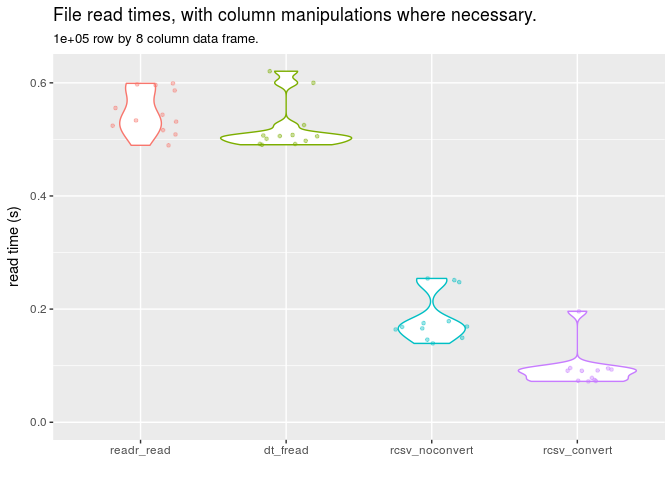
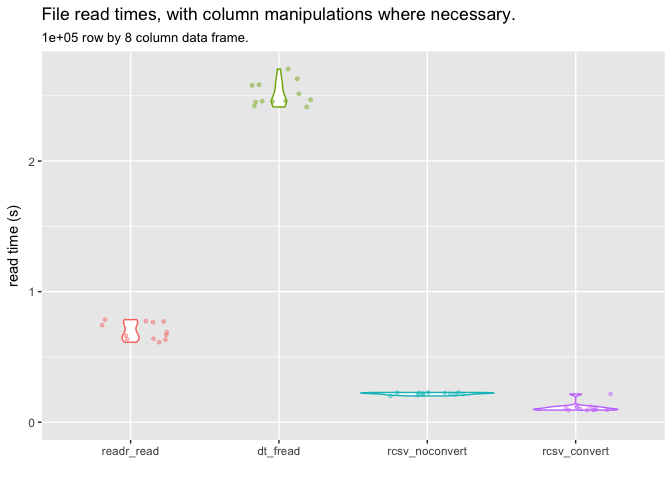
updating README

diff --git a/README.md b/README.md
@@ -87,10 +87,10 @@ write_rcsv( df, testfile )
 #>  And another one.
 ```
 
-Noticee that at the top of this file though, is a (JSON-like) header:
+Notice that at the top of this file though, is a (JSON-like) header:
 
 ``` r
-readLines( testfile, n = 12 )
+readLines( testfile, n = 15 )
 #>  [1] "#{rcsvHeader},{headlines:11},{noteslines:2},{colreflines:8},{tablerows:100}"                         
 #>  [2] "#{notes:Here's an example note.}"                                                                    
 #>  [3] "#{notes:And another one.}"                                                                           
@@ -102,7 +102,10 @@ readLines( testfile, n = 12 )
 #>  [9] "#{colref:6},{colname:logical},{colclass:logical},{from:long}"                                        
 #> [10] "#{colref:7},{colname:factor},{colclass:factor},{levels:small,medium,large,extra-large},{from:string}"
 #> [11] "#{colref:8},{colname:times},{colclass:times},{from:string}"                                          
-#> [12] "integers,letters,dates,posix,itime,logical,factor,times"
+#> [12] "integers,letters,dates,posix,itime,logical,factor,times"                                             
+#> [13] "1,h,2107-12-31,1970-01-12T08:46:40Z,05:43:46,FALSE,extra-large,00:01:26"                             
+#> [14] "2,u,2046-07-20,1970-01-12T09:03:20Z,23:05:47,TRUE,small,00:15:57"                                    
+#> [15] "3,k,2082-05-19,1970-01-12T09:20:00Z,14:25:58,FALSE,extra-large,00:30:28"
 ```
 
 The first line of the file contains some basic details about the file structure, below which is a series of lines specifying details of each column. This "header" section will be used by `read_rcsv` to import the data frame in a manner matching the file written out, without the need for special parameters on the read call, or additional manipulations after import.
@@ -234,7 +237,7 @@ The `write_rcsv` function includes several options for "compressing" the csv out
 rcsv::write_rcsv( df, testfile, strings.convert = TRUE )
 #> Notes:  Here's an example note.
 #>  And another one.
-readLines( testfile, n = 12 )
+readLines( testfile, n = 15 )
 #>  [1] "#{rcsvHeader},{headlines:11},{noteslines:2},{colreflines:8},{tablerows:100}"                                                      
 #>  [2] "#{notes:Here's an example note.}"                                                                                                 
 #>  [3] "#{notes:And another one.}"                                                                                                        
@@ -246,7 +249,10 @@ readLines( testfile, n = 12 )
 #>  [9] "#{colref:6},{colname:logical},{colclass:logical},{from:integer}"                                                                  
 #> [10] "#{colref:7},{colname:factor},{colclass:factor},{levels:small,medium,large,extra-large},{from:integer}"                            
 #> [11] "#{colref:8},{colname:times},{colclass:times},{from:numeric}"                                                                      
-#> [12] "integers,letters,dates,posix,itime,logical,factor,times"
+#> [12] "integers,letters,dates,posix,itime,logical,factor,times"                                                                          
+#> [13] "1,8,50402,1000000,20626,0,4,0.001"                                                                                                
+#> [14] "2,21,27959,1001000,83147,1,1,0.0110808080808081"                                                                                  
+#> [15] "3,11,41046,1002000,51958,0,4,0.0211616161616162"
 ```
 
 The data itself here looks significantly different from the regular csv. character strings, factors, dates, times, and logical objects are all being represented in integer or numeric form, to be converted back to their respective classes on import using the information stored in the header, without any extra parameters needing to be passed to the import call:
@@ -299,24 +305,24 @@ write.times <- microbenchmark::microbenchmark(
 )
 write.times
 #> Unit: milliseconds
-#>            expr         min          lq        mean      median
-#>      base_write 1443.225465 1502.656276 1578.110362 1553.346403
-#>     readr_write 1221.255362 1295.262282 1330.022583 1335.235287
-#>       dt_fwrite   15.916950   16.189959   35.281099   16.578532
-#>  rcsv_noconvert   56.250162   62.242014  106.617409   89.231216
-#>    rcsv_convert   23.792785   23.933099   37.223181   24.269112
-#>     rds_default  372.352141  374.994775  377.195577  377.804246
-#>             fst    3.809448    3.864523   15.420128    3.921533
-#>         feather    4.818591    4.872651    7.360614    4.940223
-#>           uq        max neval
-#>  1621.184513 1859.69566    12
-#>  1358.287101 1416.43248    12
-#>    26.054796  156.75417    12
-#>   141.602549  199.42766    12
-#>    36.268625  136.92847    12
-#>   379.183261  380.80144    12
-#>     6.135300   88.90081    12
-#>     5.782434   25.68775    12
+#>            expr         min          lq       mean      median         uq
+#>      base_write 2041.665661 2152.615432 2217.37180 2196.721061 2264.42605
+#>     readr_write 1868.495453 1981.885070 2038.54860 2013.841968 2125.89219
+#>       dt_fwrite   31.218609   32.065960   34.73217   33.299292   35.68307
+#>  rcsv_noconvert  661.864865  683.496033  728.47201  717.284687  751.03250
+#>    rcsv_convert   40.527412   41.560537   56.70949   44.274680   69.24308
+#>     rds_default  440.414554  442.229897  460.95943  458.189173  474.36831
+#>             fst    9.603177    9.721027   13.59323   11.787356   14.33337
+#>         feather    8.906546    9.282094   10.96685    9.646314   11.21606
+#>         max neval
+#>  2520.15320    12
+#>  2228.80600    12
+#>    45.52502    12
+#>   841.44069    12
+#>   126.61868    12
+#>   489.24868    12
+#>    33.42652    12
+#>    21.56478    12
 ```
 
 `write_rcsv` is built around the fantastic `data.table::fwrite` function, making it much faster than both `base::write.csv` and `readr::write_csv`. It even maintains relatively good performance compared with `data.table::fwrite`, but is slowed a little by the conversion processes and header writing steps.
@@ -375,24 +381,24 @@ read.times <- microbenchmark::microbenchmark(
 )
 read.times
 #> Unit: milliseconds
-#>            expr        min         lq       mean     median         uq
-#>       base_read 814.308740 844.492948 880.434284 853.899882 930.306224
-#>      readr_read 124.591556 134.556925 162.925143 142.053381 204.145846
-#>        dt_fread  74.395278  81.236267  90.638950  84.762014  94.709424
-#>  rcsv_noconvert 139.979558 144.438235 161.397583 168.289216 171.503119
-#>    rcsv_convert  72.676689  91.212814 121.716011  95.867846 150.219459
-#>     rds_default  34.872713  35.532128  38.386559  35.718348  36.777367
-#>             fst   3.128357   3.194956  22.864712   3.618270  18.556116
-#>         feather   2.695026   2.775343   3.047929   2.925985   3.271799
+#>            expr         min          lq        mean     median          uq
+#>       base_read 1868.719425 1914.788615 1982.255296 1958.11861 2018.403611
+#>      readr_read  158.194305  162.613146  188.189757  177.87227  193.068399
+#>        dt_fread   97.503365  100.979011  105.467709  102.68326  108.472006
+#>  rcsv_noconvert  203.351055  226.312980  274.691320  241.12584  331.211979
+#>    rcsv_convert   98.317096  113.711342  148.513387  128.59836  183.886843
+#>     rds_default   44.062025   47.623549   54.064613   49.30708   62.122414
+#>             fst    4.867486    6.540487    9.609539    7.03472    8.357452
+#>         feather    5.123905    5.807993    9.973762    6.69188    7.389927
 #>         max neval
-#>  980.798262    12
-#>  231.952405    12
-#>  125.853915    12
-#>  182.611449    12
-#>  217.666965    12
-#>   60.383518    12
-#>  105.344794    12
-#>    3.879892    12
+#>  2188.15433    12
+#>   316.92221    12
+#>   118.94102    12
+#>   371.79447    12
+#>   237.90034    12
+#>    71.49639    12
+#>    28.84116    12
+#>    30.23217    12
 ```
 
 ``` r
@@ -443,16 +449,16 @@ read.times.with.manipulations <- microbenchmark::microbenchmark(
 )
 read.times.with.manipulations
 #> Unit: milliseconds
-#>            expr       min        lq      mean    median        uq      max
-#>      readr_read 489.54103 520.20777 548.47964 538.55969 591.32222 599.0410
-#>        dt_fread 490.54643 494.75862 520.39188 505.68648 516.50696 620.5011
-#>  rcsv_noconvert 139.40223 156.68906 184.14517 168.84559 213.25729 254.2323
-#>    rcsv_convert  72.26905  73.96774  93.80176  91.04462  94.15109 196.0591
-#>  neval
-#>     12
-#>     12
-#>     12
-#>     12
+#>            expr        min         lq      mean     median        uq
+#>      readr_read  612.85806  637.03119  698.4770  679.17092  768.9131
+#>        dt_fread 2414.14187 2453.70571 2511.9350 2464.73922 2582.0660
+#>  rcsv_noconvert  201.61653  210.72137  218.2322  220.20953  225.5082
+#>    rcsv_convert   93.31488   95.16434  113.1085   99.96889  117.9124
+#>        max neval
+#>   785.7703    12
+#>  2704.3046    12
+#>   228.1607    12
+#>   216.1064    12
 ```
 
 ``` r
